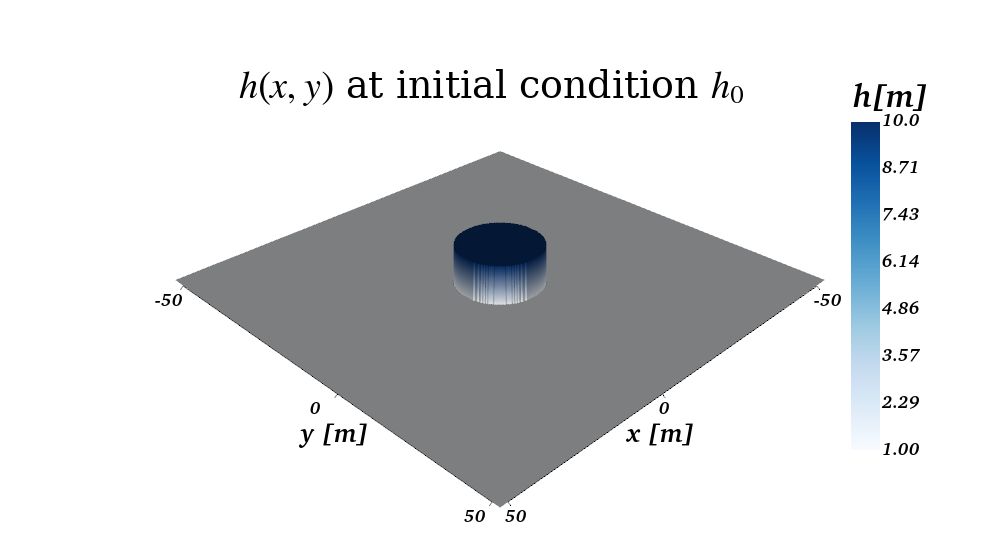
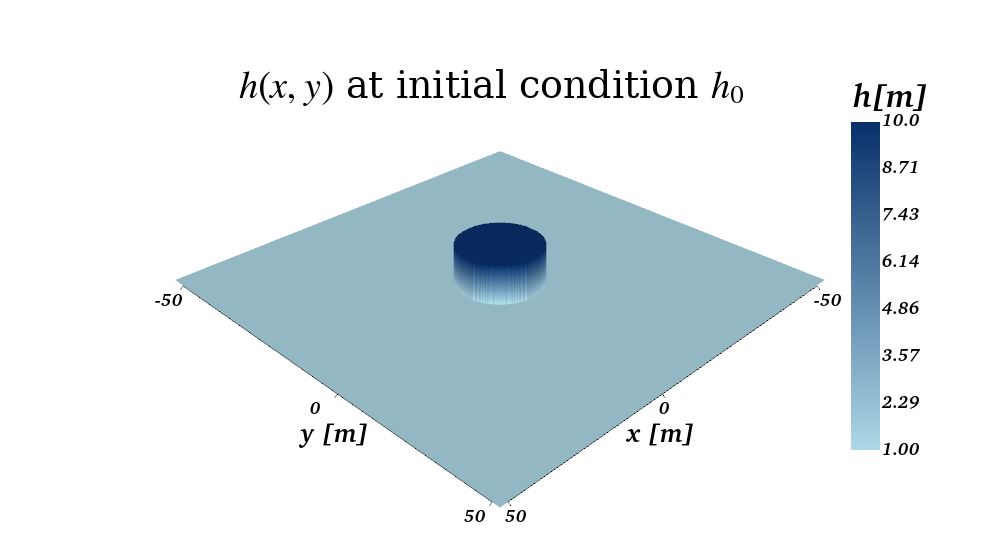
changed the color map so that shallow water was light blue not white

Changed region(s): [[0.155, 0.2812, 0.899, 0.9375]]

diff --git a/src/del_1.py b/src/del_1.py
@@ -17,6 +17,19 @@ def plot(X, Y, h, filename = None):
 
     s = mlab.surf(X, Y, h, colormap="Blues", warp_scale=1)
 
+    # custom colormap: light blue (low h) -> dark blue (high h)
+    light = np.array([173, 216, 230])
+    dark = np.array([8, 48, 107])
+    t_lut = np.linspace(0, 1, 256)[:, None]
+    rgb = (1 - t_lut) * light + t_lut * dark
+    lut = np.hstack([rgb, 255 * np.ones((256, 1))]).astype(np.uint8)
+    s.module_manager.scalar_lut_manager.lut.table = lut
+
+    # softer lighting so the surface colors match the colorbar in the saved png
+    s.actor.property.ambient = 0.6
+    s.actor.property.diffuse = 0.5
+    s.actor.property.specular = 0.0
+
     ax = mlab.axes(s, xlabel="x [m]", ylabel="y [m]", zlabel="", nb_labels = 3)
     ax.axes.y_axis_visibility = False
     ax.axes.label_format = "%.0f"
@@ -44,4 +57,16 @@ def plot(X, Y, h, filename = None):
 if __name__ == '__main__':
     X, Y = grid(Lx=100, Ly=100, Nx=401, Ny=401)
     h0, u0, v0 = initial_function(X, Y, hD=10, hS=1, R=10)
+<<<<<<< Updated upstream
     plot(X, Y, h0)
+=======
+    Q0 = np.array([h0, u0, v0])
+    dx, dy = 0.25, 0.25
+    dt = 0.4 * dx / np.sqrt(g * 10)
+    lax_f_simulation(Q0, dx, dy, dt, T =1 )
+
+    plot(X, Y, h0, filename = 'figures/plot_initial_condition.png')
+
+
+
+>>>>>>> Stashed changes
